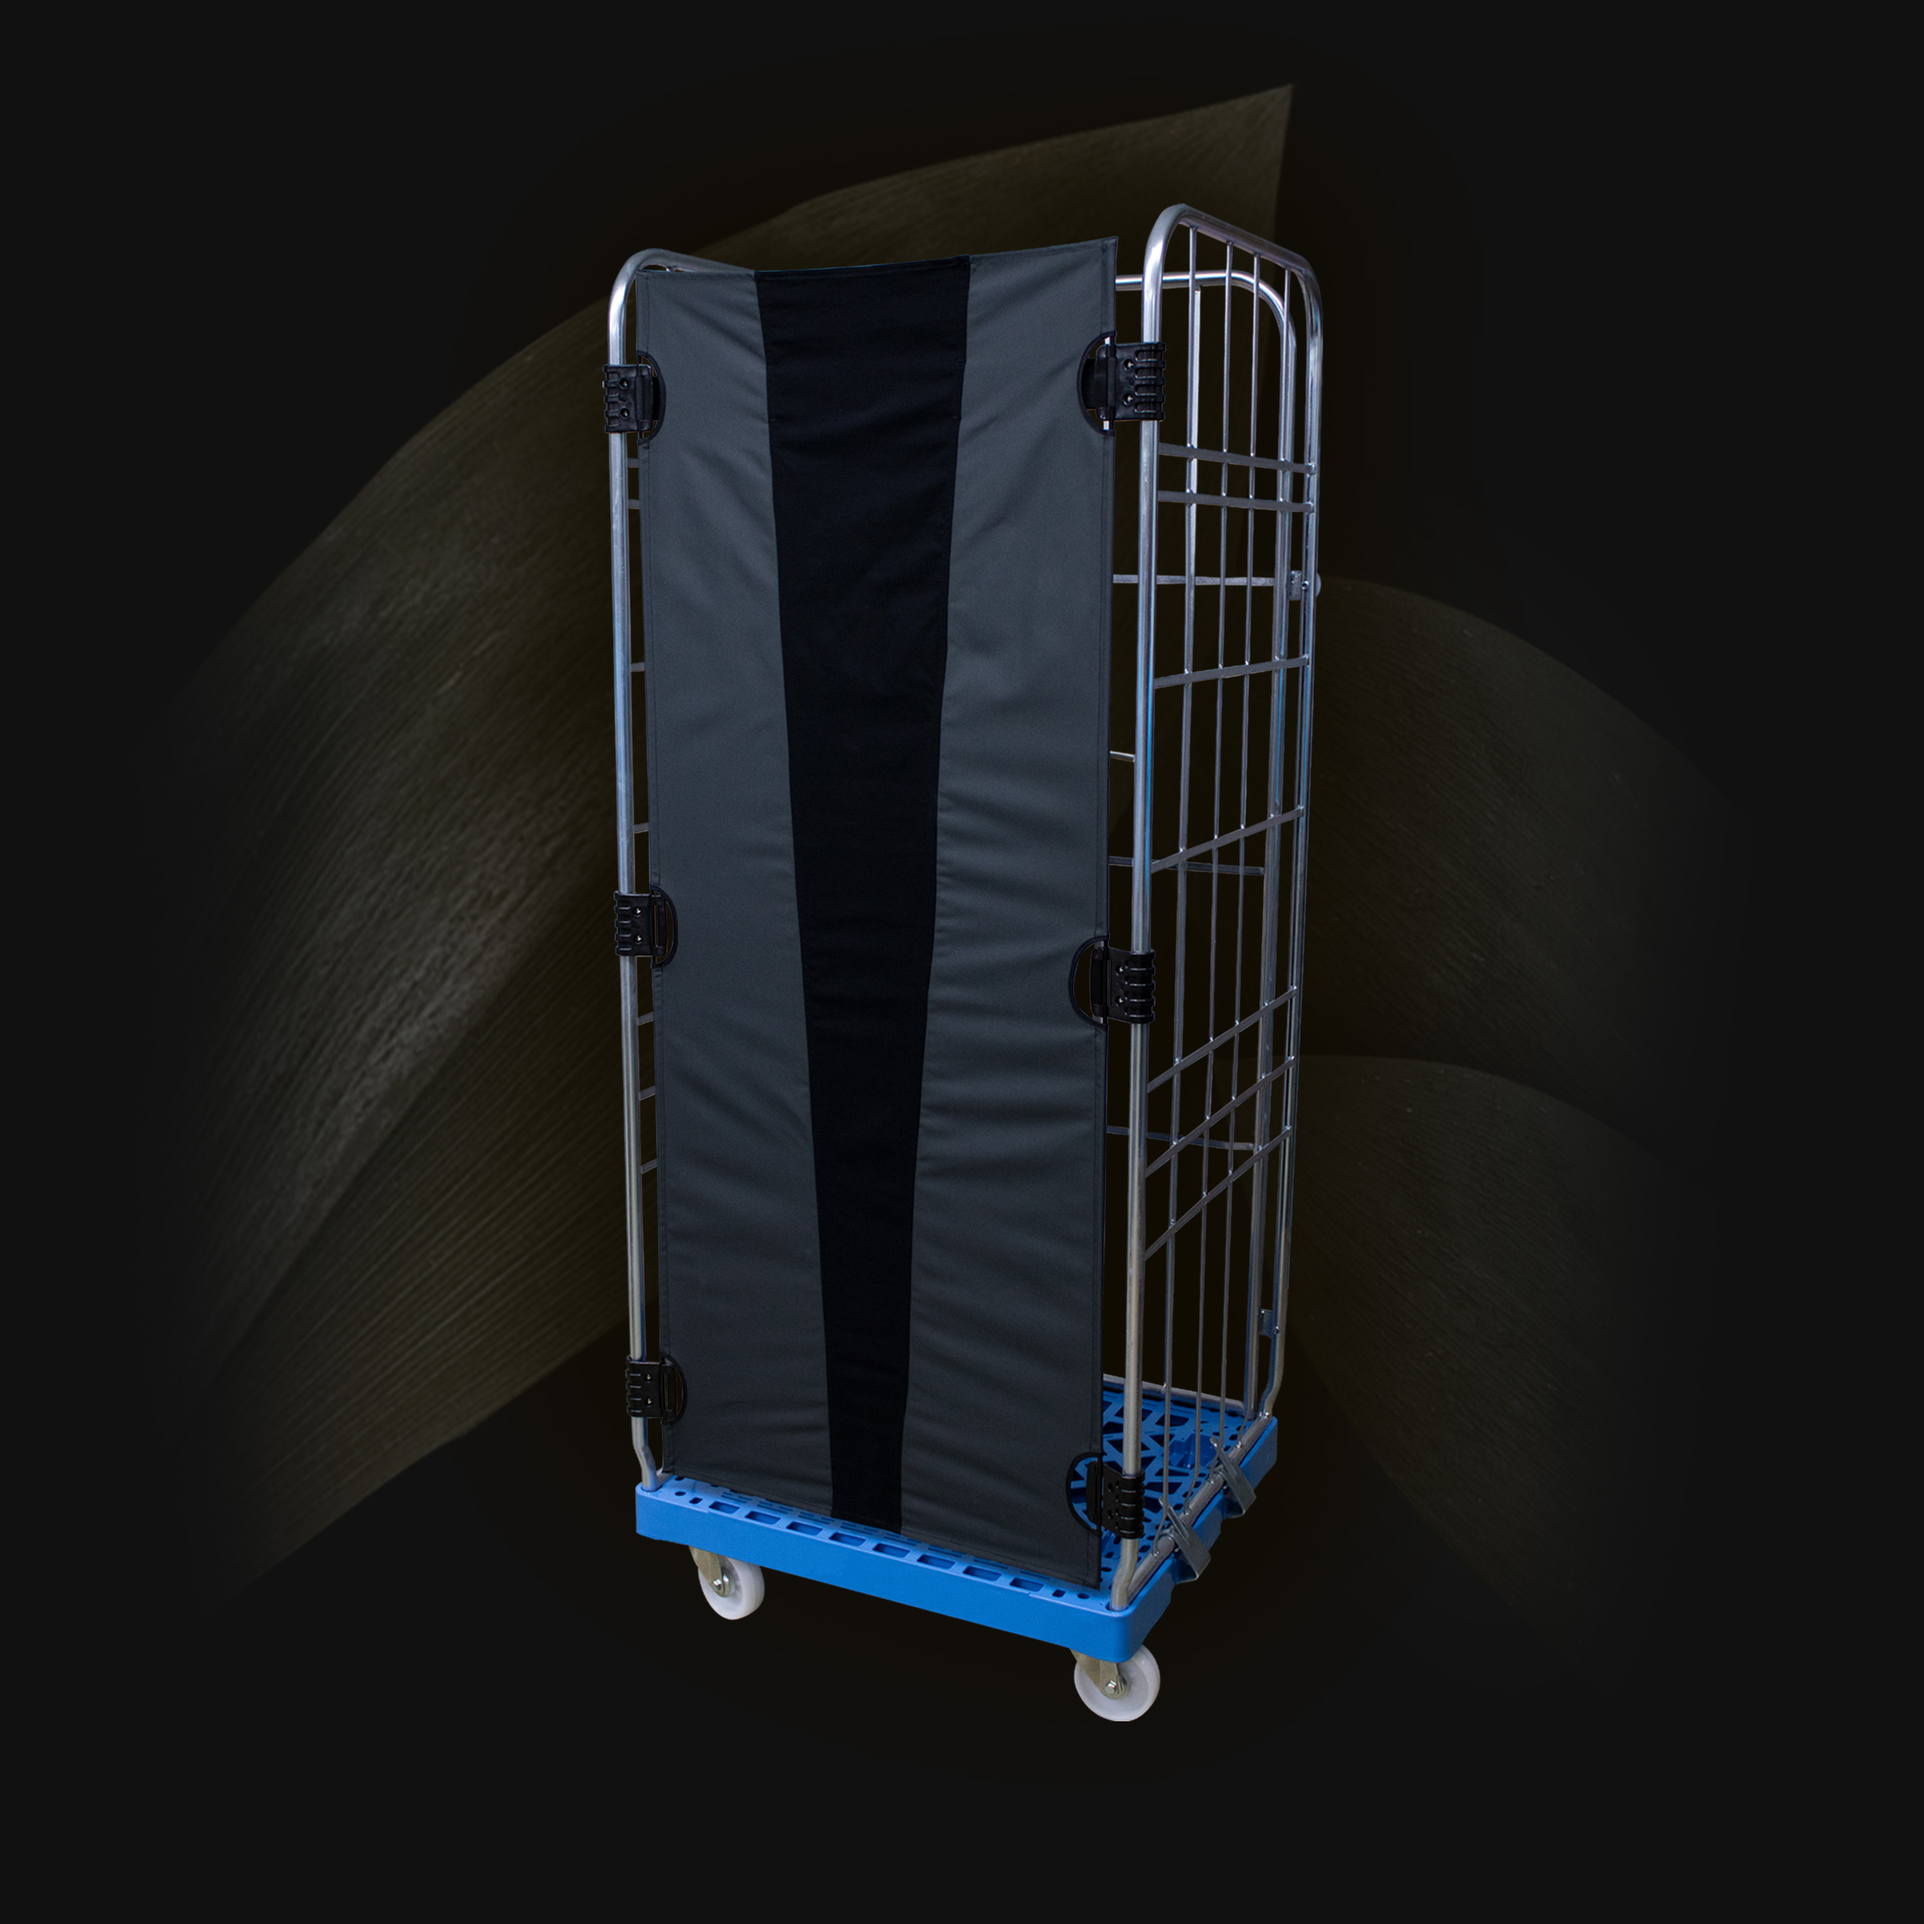
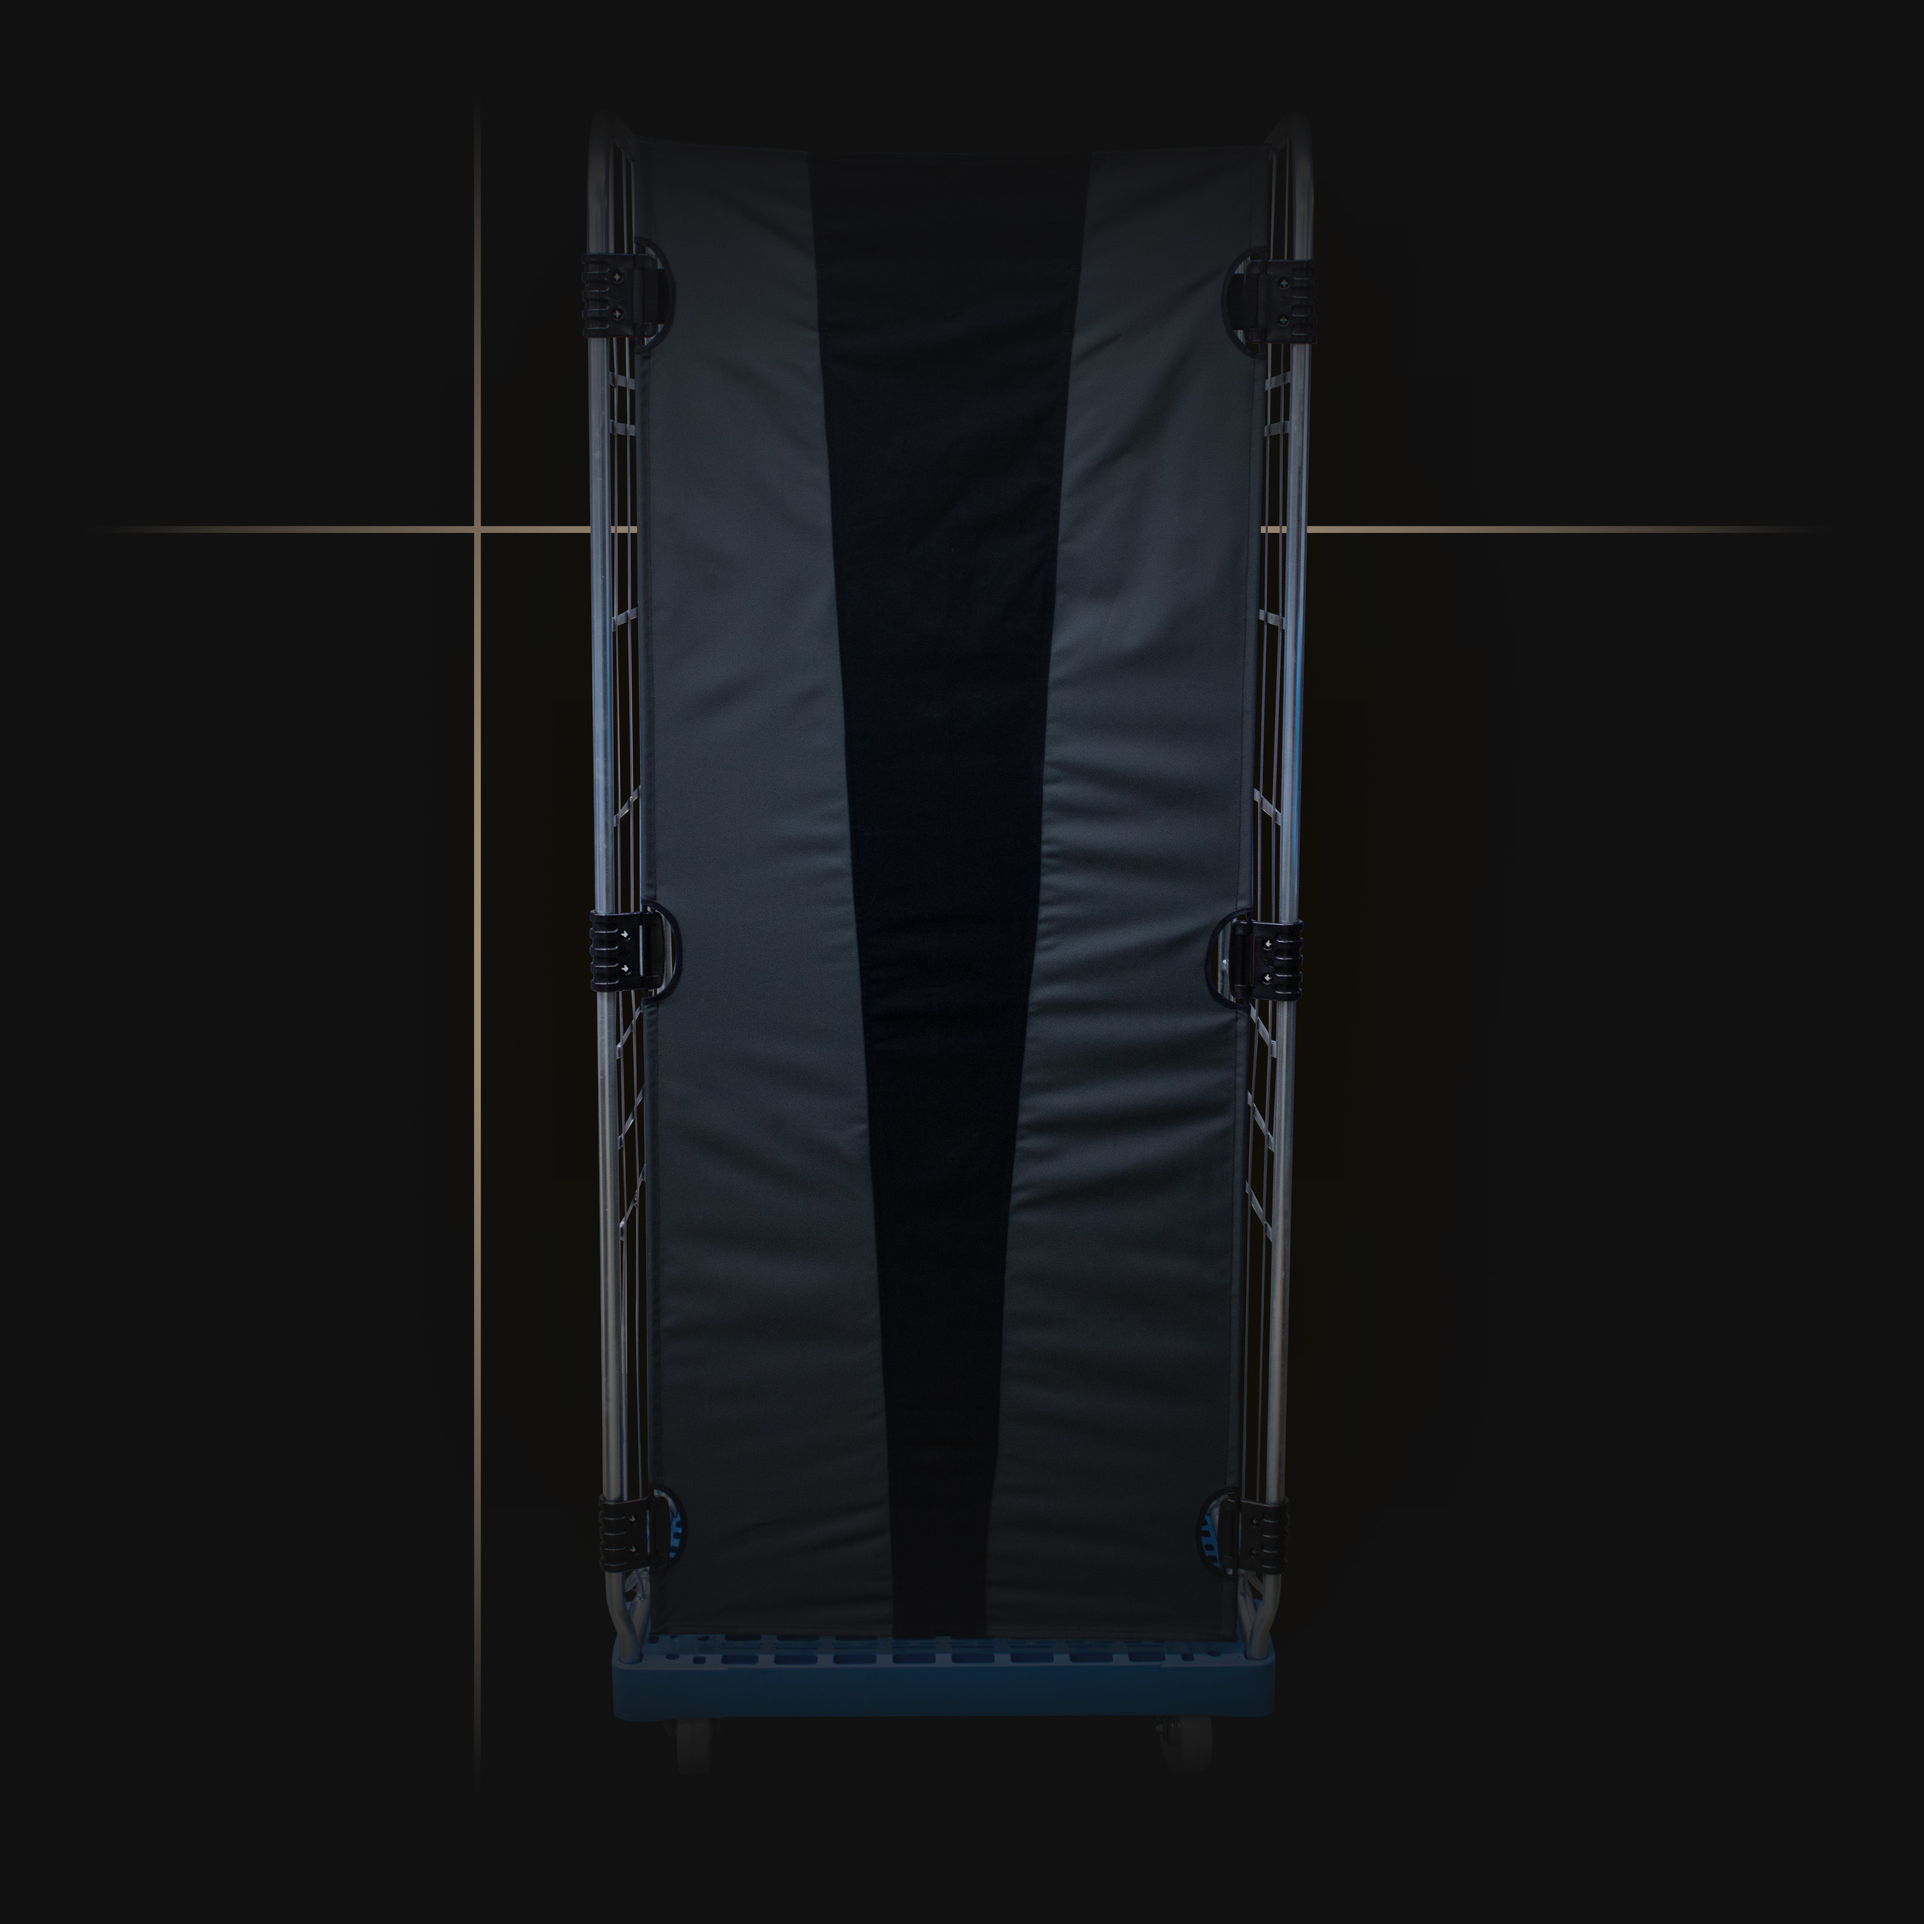
Bilder auf Schutzwandseite erneuert

diff --git a/src/content/productmodels/schutzwand.js b/src/content/productmodels/schutzwand.js
@@ -8,6 +8,9 @@ import pants from "@/assets/Produkte/BMI Hose Seite.jpg"
 import vest from "@/assets/official_headwear.png"
 import star from "@/assets/star-regular.svg"
 import schutzwandHeader from "@/assets/Produkte/schutzwand_schraeg_header.jpg"
+import schutzwandHaken from "@/assets/Produkte/schutzwand_haken.jpg"
+import schutzwandSpannung from "@/assets/Produkte/schutzwand_spannung.jpg"
+import schutzwandLagerung from "@/assets/Produkte/schutzwand_lagerung.jpg"
 
 
 
@@ -113,7 +116,7 @@ When not in use, the wall can be conveniently and gently stored by securing it t
                     de: "Haken einhängen",
                     en: "Apply hooks"
                 },
-                img: schutzwandSchraeg.src,
+                img: schutzwandHaken.src,
                 text: {
                     de: `Hängen Sie alle sechs Haken in die Seitengitter des Rollcontainers ein. Achten Sie dabei unbedingt darauf, dass die breitere Seite der Mittelbahn nach oben zeigt. Dieser Schritt ist besonders wichtig, da der obere Bereich des Rollcontainers mehr Flexibilität benötigt und von der erhöhten Elastizität der oberen Zone profitiert.`,
                     en: `Attach all six hooks to the side panels of the roll container. Be sure that the wider side of the center panel is facing upward. This step is crucial, as the upper section of the container requires greater flexibility and benefits from the enhanced elasticity of the top part.`
@@ -124,7 +127,7 @@ When not in use, the wall can be conveniently and gently stored by securing it t
                     de: "Spannung einstellen",
                     en: "Adjust the tension"
                 },
-                img: schutzwandFront.src,
+                img: schutzwandSpannung.src,
                 text: {
                     de: `Stellen Sie nun die Spannung des Gurtbandes auf der Rückseite der Schutzwand so ein, dass die Gitterwände des Rollcontainers die Ware sicher fixieren – ohne sie zu quetschen. Herzlichen Glückwunsch: Ihre Ladung ist jetzt bereit für den Transport – ganz ohne teure und umweltschädliche Stretchfolie.`,
                     en: `Now adjust the tension of the strap at the back of the protective wall so that the container’s mesh panels hold the goods securely in place – without compressing them. Congratulations – your shipment is now ready for transport, without the need for costly and environmentally harmful stretch film.`
@@ -135,7 +138,7 @@ When not in use, the wall can be conveniently and gently stored by securing it t
                     de: "Lagerung der Schutzwand",
                     en: "Storage of the protective wall"
                 },
-                img: schutzwandVerschluss.src,
+                img: schutzwandLagerung.src,
                 text: {
                     de: `Wenn Sie die Schutzwand gerade nicht benötigen, kann sie ganz einfach an einer beliebigen Seitenwand des Rollcontainers eingehängt werden. So wird die Transportsicherung platzsparend und materialschonend gelagert. Für den nächsten Einsatz ist sie damit sofort griffbereit – das spart Zeit und bares Geld.`,
                     en: `When the protective wall is not in use, it can be easily hooked onto any side panel of the roll container. This allows for space-saving and gentle storage of the load securing system. For the next transport, it’s already in the right place – saving both time and money.`
